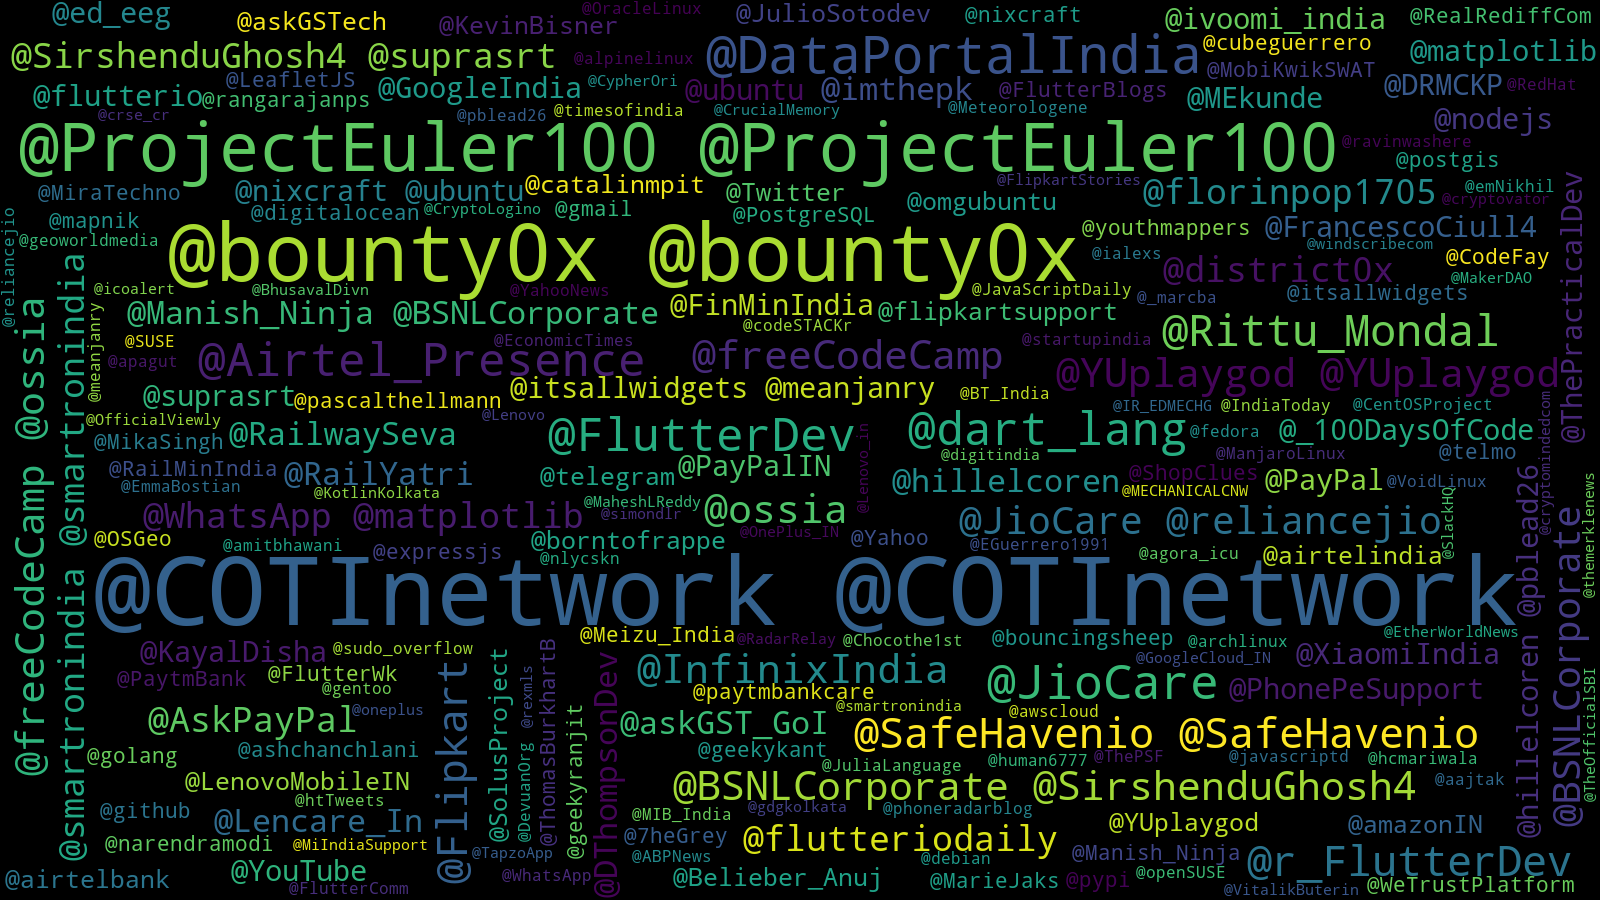
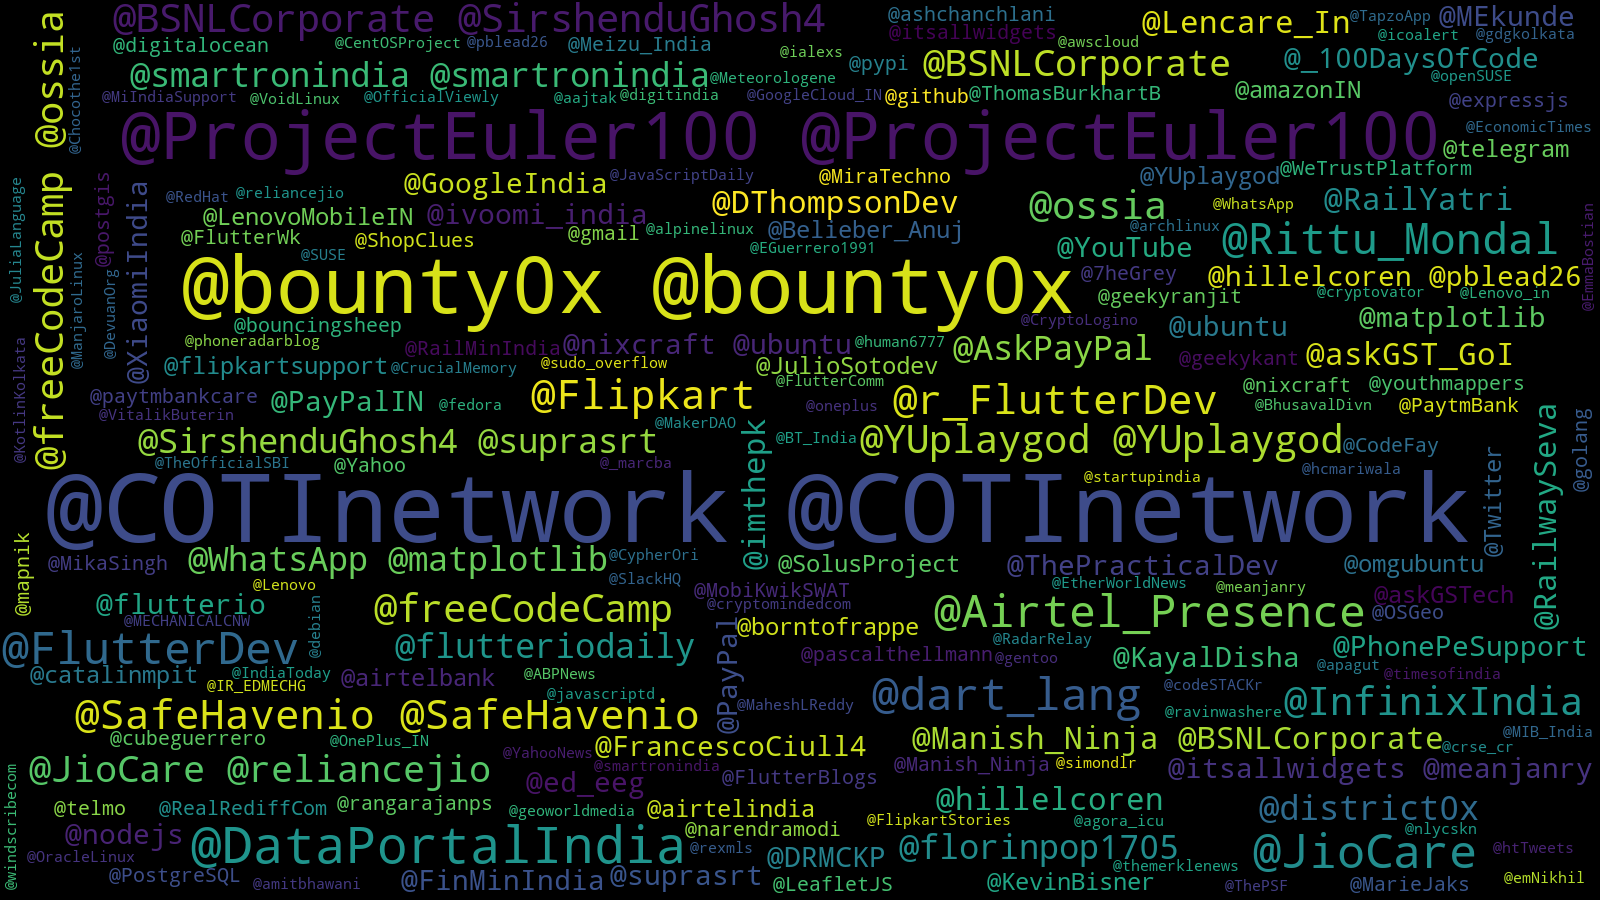
generated new plot - word cloud of tweets

diff --git a/twiz/main.py b/twiz/main.py
@@ -36,7 +36,8 @@ from .plot.tweet.viz import (
     plotTopXHashTags,
     plotTopXUserMentions,
     wordCloudOfHashTagsUsedInTweets,
-    wordCloudOfTaggedUsersInTweets
+    wordCloudOfTaggedUsersInTweets,
+    wordCloudOfTweets
 )
 from time import time
 
@@ -219,7 +220,10 @@ def main():
                 f'plots/wordCloudOfHashTagsInTweetsBy{_joinName(_accountDisplayName)}.png'),
             wordCloudOfTaggedUsersInTweets(
                 _tweets,
-                f'plots/wordCloudOfMentionedUsersInTweetsBy{_joinName(_accountDisplayName)}.png')
+                f'plots/wordCloudOfMentionedUsersInTweetsBy{_joinName(_accountDisplayName)}.png'),
+            wordCloudOfTweets(
+                _tweets,
+                f'plots/wordCloudOfTweetsBy{_joinName(_accountDisplayName)}.png')
         ]
 
         print('[+]Obtained success : {:.2f} %, in {:.2f} s'.format(
